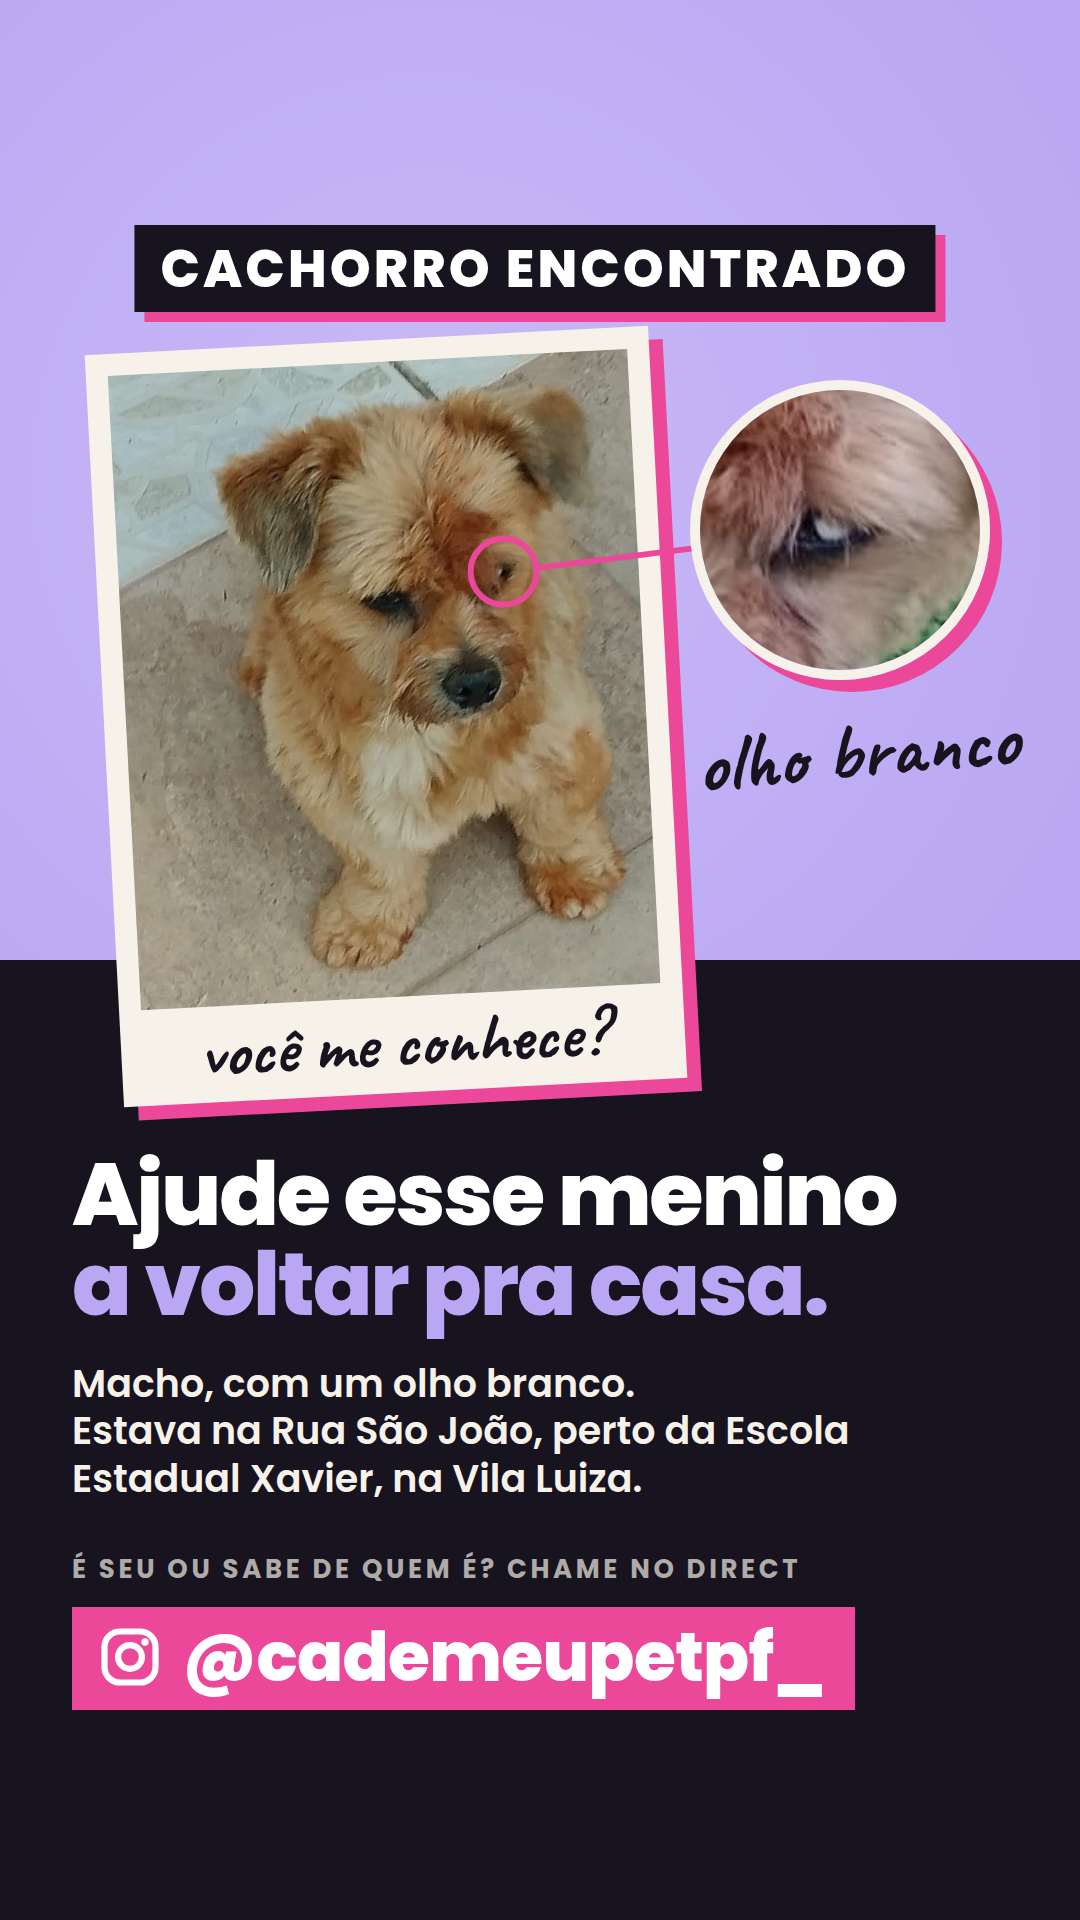
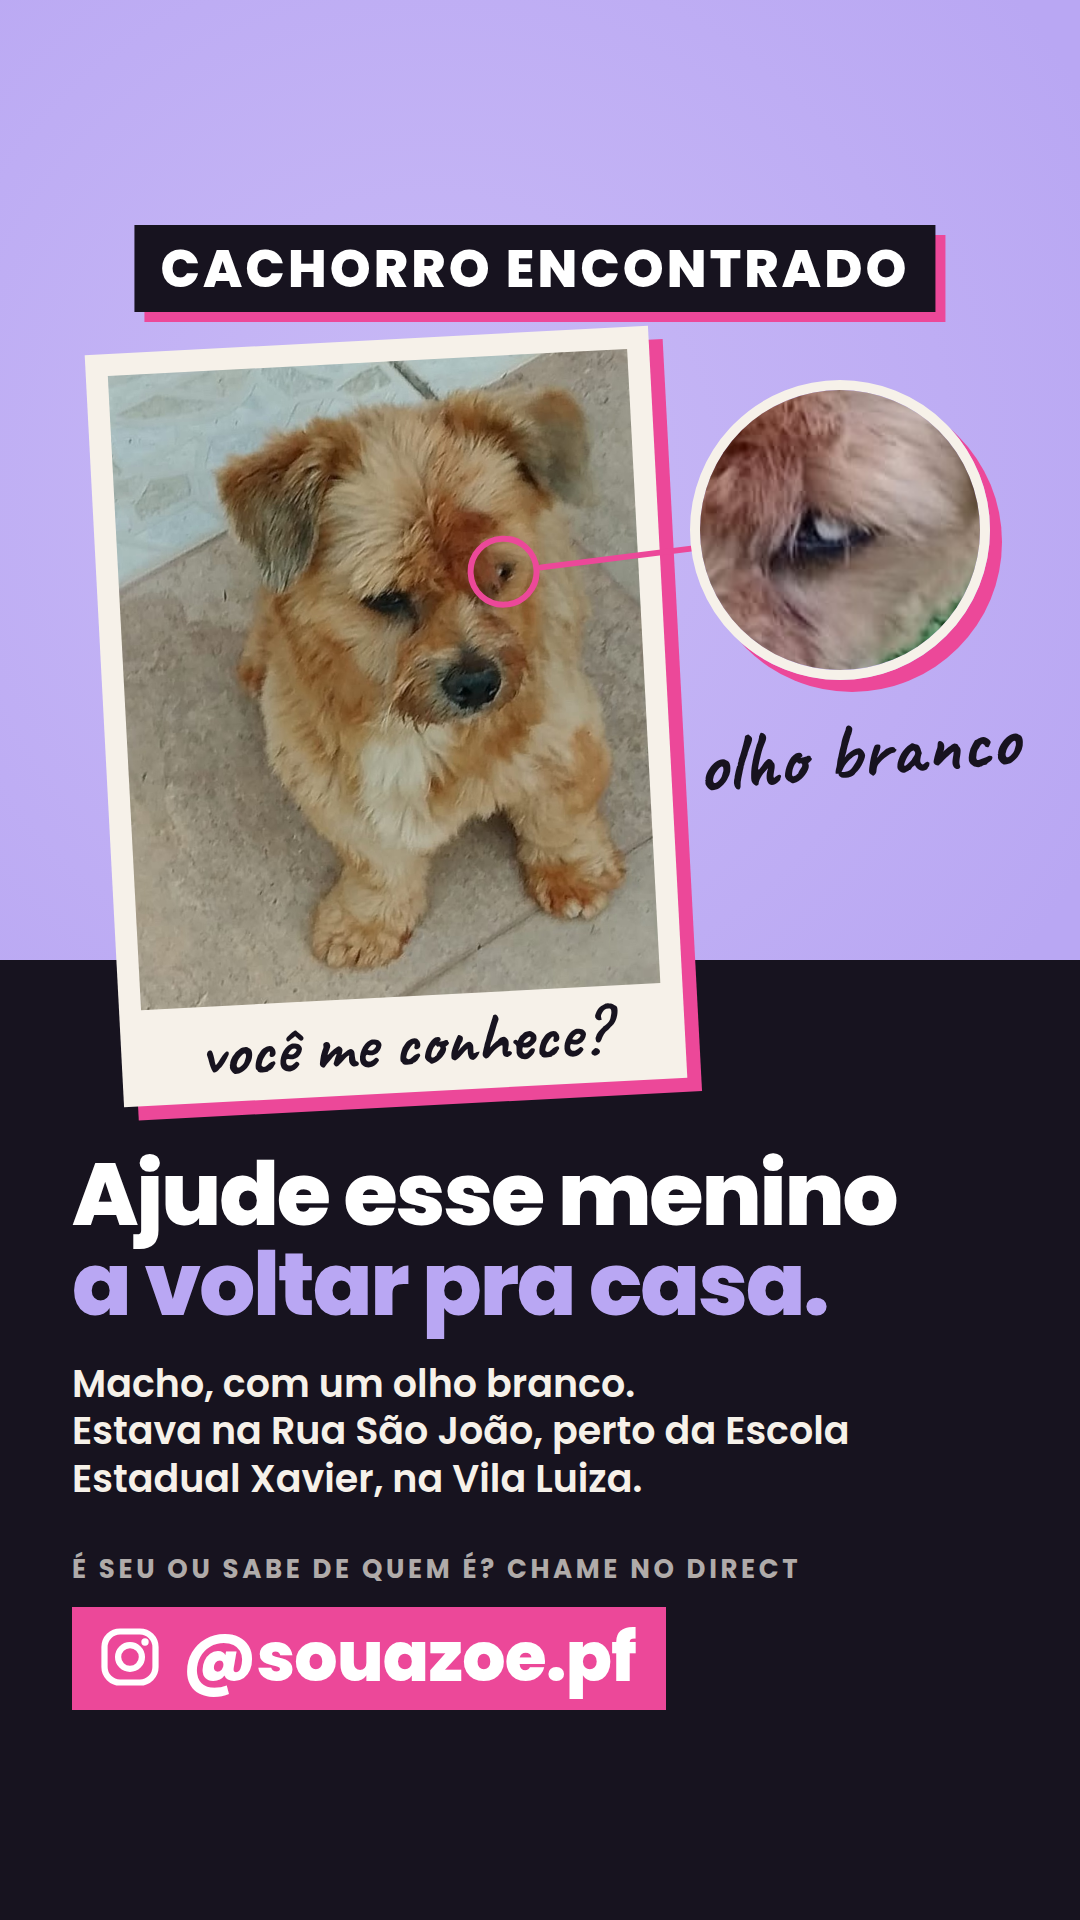
Encontrado Vila Luiza: contato pelo direct da Zoe (@souazoe.pf)
Claude-Session: https://claude.ai/code/session_01SUhTPCHedoYX3LEMS8DjCr

Changed region(s): [[0.2444, 0.8125, 0.7944, 0.9062]]

diff --git a/templates/desaparecidos/encontrado-vila-luiza.html b/templates/desaparecidos/encontrado-vila-luiza.html
@@ -15,7 +15,7 @@
 
   Caso Vila Luiza (perdidos/vila-luiza-1..3.jpeg, prints de um Story que repostou o post do @cademeupetpf_):
   fotos feitas pelo foto_vila_luiza.py. Só o que a arte diz: macho, um olho branco, encontrado na Rua São João,
-  perto da Escola Estadual Xavier, Bairro Vila Luiza. O contato é o direct de quem publicou.
+  perto da Escola Estadual Xavier, Bairro Vila Luiza. O contato é o direct da própria Zoe (@souazoe.pf).
   O mesmo conteúdo sai em dois formatos: Stories/TikTok 1080x1920 (o pedido) e feed 1080x1350 (clonado pelo script).
   Próximo caso: copiar este arquivo, trocar as fotos, o texto e a posição do anel (--ax/--ay, em fração da foto).
 -->
@@ -77,7 +77,7 @@ body{background:#000;font-family:P,sans-serif;-webkit-font-smoothing:antialiased
 .card:not(.story) .info br{display:none}  /* no feed cabe em duas linhas corridas */
 .rot{margin-top:36px;font-weight:700;font-size:26px;letter-spacing:.14em;text-transform:uppercase;color:rgba(246,241,233,.7)}
 .story .rot{margin-top:48px}
-/* contato: direct de quem publicou, com o ícone do Instagram */
+/* contato: direct da Zoe, com o ícone do Instagram */
 .tel{margin-top:18px;display:inline-flex;align-items:center;gap:18px;background:var(--pink);
   padding:14px 30px 14px 24px;font-weight:800;font-size:62px;line-height:1.1;letter-spacing:-.01em}
 .tel svg{width:1em;height:1em;flex:none;margin-top:-.04em}
@@ -106,7 +106,7 @@ body{background:#000;font-family:P,sans-serif;-webkit-font-smoothing:antialiased
         <circle cx="12" cy="12" r="4.2"/>
         <circle cx="17.3" cy="6.7" r="1.3" fill="#fff" stroke="none"/>
       </svg>
-      <span>@cademeupetpf_</span>
+      <span>@souazoe.pf</span>
     </div>
   </div>
 </section>
